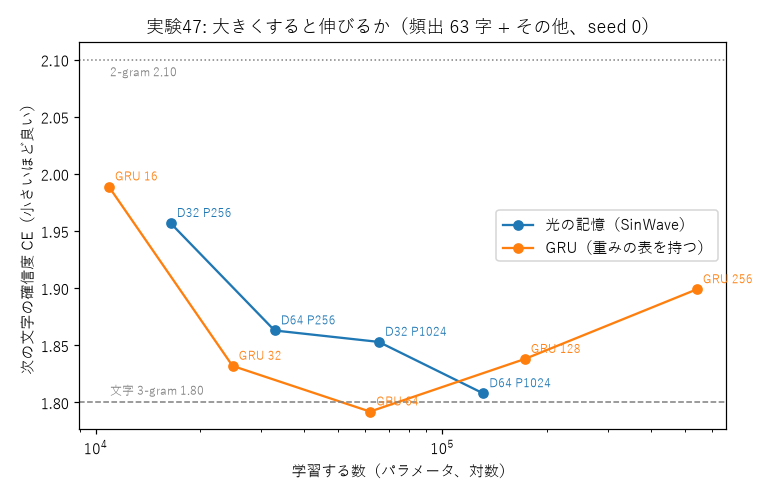
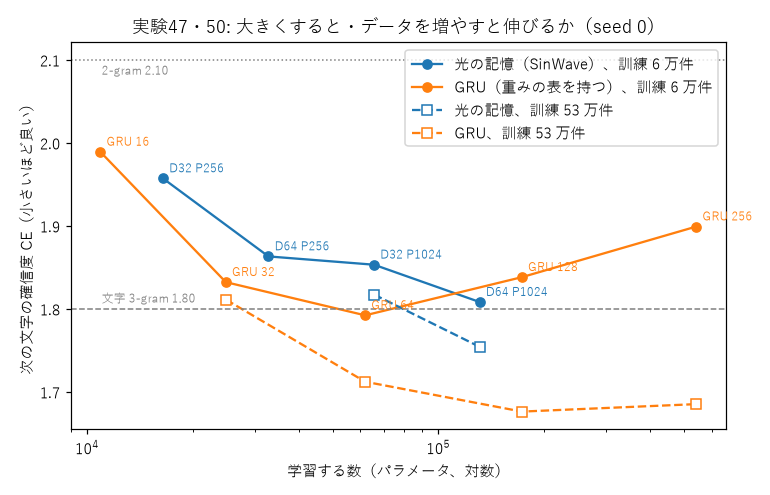
実験49・50: 組み立ての誤差への強さは性能と引き換え。訓練データ全部で光の記憶が 3-gram を上回る（54.2%）が、GRU の方が伸びる

diff --git a/tools/scoreboard.py b/tools/scoreboard.py
@@ -16,9 +16,9 @@ import sys
 
 # (軸, 項目, 配点, ゼロ点の基準, 目標, 今の値, 対数で採点, 目標の根拠, 今の値の出典)。今の値が None なら未測定（0 点）
 ITEMS = [
-    ("言語", "次の文字の正解率 (%)", 8, 36.3, 53.6, 53.45, False, "3-gram（直前 2 文字の表）", "実験47 光の記憶 D64 P1024"),
-    ("言語", "次の文字の確信度 CE（小さいほど良い）", 8, 3.09, 1.80, 1.808, False, "3-gram", "実験47"),
-    ("言語", "文脈の活用（文脈 1 文字→最良の伸び、点）", 5, 0.0, 12.9, 11.8, False, "n-gram の伸び 42.5→55.4", "実験47 41.7→53.5"),
+    ("言語", "次の文字の正解率 (%)", 8, 36.3, 53.6, 54.18, False, "3-gram（直前 2 文字の表）", "実験50 光の記憶 D64 P1024、訓練 53 万件"),
+    ("言語", "次の文字の確信度 CE（小さいほど良い）", 8, 3.09, 1.80, 1.754, False, "3-gram", "実験50"),
+    ("言語", "文脈の活用（文脈 1 文字→最良の伸び、点）", 5, 0.0, 12.9, 12.3, False, "n-gram の伸び 42.5→55.4", "実験50 41.9→54.2"),
     ("言語", "文字列の分類（16 クラス、%）", 5, 6.25, 95.1, 95.2, False, "ロジスティック回帰", "実験30・32（色ごと）"),
     ("言語", "文字の並び（順序課題、%）", 4, 50.0, 100.0, 100.0, False, "隣り合う 2 文字の回帰", "実験30・33"),
     ("言語", "文字列→文字列の規則（未知の文字列、%）", 5, 6.25, 100.0, 99.9, False, "完全に正しい変換", "実験37 逆順"),
@@ -30,7 +30,7 @@ ITEMS = [
     ("得意分野", "未知の物（例 0 個）の認識（既知と未知の調和平均、%）", 7, 0.0, 80.0, 72.7, False, "既知・未知とも 80%", "実験36"),
     ("得意分野", "少数例で新しいクラスを追加（例 5 個、%）", 6, 8.3, 55.1, 21.2, False, "文字の出現回数で典型と照合", "実験28"),
     ("得意分野", "短い記憶（同じ文字を直前の文字で出し分け、%）", 2.5, 50.0, 100.0, 100.0, False, "完全に出し分け", "実験38b"),
-    ("得意分野", "長い記憶（文脈 2→5 文字の伸び、点）", 2.5, 0.0, 1.8, 2.7, False, "n-gram 3→4-gram の伸び", "実験47 50.6→53.4"),
+    ("得意分野", "長い記憶（文脈 2→5 文字の伸び、点）", 2.5, 0.0, 1.8, 2.6, False, "n-gram 3→4-gram の伸び", "実験50 51.5→54.0"),
     ("効率", "1 技能の大きさ（KB、小さいほど良い）", 3, 1000.0, 50.0, 10.1, False, "50KB 以下", "最小版 v1.1"),
     ("効率", "推論の速さ（µs/件、GPU、小さいほど良い）", 4, 1000.0, 1.0, 61.0, True, "1µs（n-gram は 0.1µs）", "最小版 v1.1 虹"),
     ("効率", "1 技能の学習時間（秒、小さいほど良い）", 3, 3600.0, 10.0, 106.0, True, "10 秒", "L=1024 色ごと 71ms × 1500"),

diff --git a/tools/plot_exp47.py b/tools/plot_exp47.py
@@ -1,4 +1,4 @@
-"""実験47 の図: 学習する数（パラメータ）と次の文字の確信度 CE（文脈 8 文字）。python tools/plot_exp47.py"""
+"""実験47・50 の図: 学習する数（パラメータ）と次の文字の確信度 CE。実線 = 訓練 6 万件（実験47）、破線 = 53 万件（実験50）。python tools/plot_exp47.py"""
 import json
 import pathlib
 import sys
@@ -20,12 +20,17 @@ for d in rows:
         gru.append((d["params"], min(d["ce_by_context"]), f"GRU {d['hid']}"))
     elif d["L"] == 1024 and d["steps"] == 6000:
         optical.append((d["params"], min(d["ce_by_context"]), f"D{d['D']} P{d['P']}"))
+rows50 = [json.loads(l) for l in open(root / "results" / "exp50.txt", encoding="utf-8") if l.startswith("{")]
+optical50 = sorted((d["params"], min(d["ce_by_context"]), "") for d in rows50 if d["model"] == "optical" and d["max_train"] == 530000)
+gru50 = sorted((d["params"], min(d["ce_by_context"]), "") for d in rows50 if d["model"] == "gru" and d["max_train"] == 530000)
 japanese_font()
 fig, ax = plt.subplots(figsize=(7, 4.5))
-for pts, c, name in ((sorted(optical), "tab:blue", "光の記憶（SinWave）"), (sorted(gru), "tab:orange", "GRU（重みの表を持つ）")):
+for pts, c, name in ((sorted(optical), "tab:blue", "光の記憶（SinWave）、訓練 6 万件"), (sorted(gru), "tab:orange", "GRU（重みの表を持つ）、訓練 6 万件")):
     ax.plot([p for p, _, _ in pts], [v for _, v, _ in pts], "o-", color=c, label=name)
     for p, v, t in pts:
         ax.annotate(t, (p, v), textcoords="offset points", xytext=(4, 4), fontsize=8, color=c)
+for pts, c, name in ((optical50, "tab:blue", "光の記憶、訓練 53 万件"), (gru50, "tab:orange", "GRU、訓練 53 万件")):
+    ax.plot([p for p, _, _ in pts], [v for _, v, _ in pts], "s--", color=c, mfc="white", label=name)
 ax.axhline(1.80, color="gray", ls="--", lw=1)
 ax.text(11000, 1.805, "文字 3-gram 1.80", color="gray", fontsize=8, va="bottom")
 ax.axhline(2.10, color="gray", ls=":", lw=1)
@@ -33,7 +38,7 @@ ax.text(11000, 2.095, "2-gram 2.10", color="gray", fontsize=8, va="top")
 ax.set_xscale("log")
 ax.set_xlabel("学習する数（パラメータ、対数）")
 ax.set_ylabel("次の文字の確信度 CE（小さいほど良い）")
-ax.set_title("実験47: 大きくすると伸びるか（頻出 63 字 + その他、seed 0）")
+ax.set_title("実験47・50: 大きくすると・データを増やすと伸びるか（seed 0）")
 ax.legend()
 fig.tight_layout()
 fig.savefig(root / "docs" / "images" / "exp47_scaling.png", dpi=110)

diff --git a/NOTES.md b/NOTES.md
@@ -26,6 +26,7 @@
 **追記 (10/18)**: **光の記憶で実テキストの壁を越えた**。1 文字ずつ入れて前の出力の光を混ぜると、文脈が伸びるほど正答率が上がり、大きいモデルで 51.1%（従来 49.1%）、CE 1.96 で初めて 2-gram (2.10) を上回った（実験41）。閾値の増幅曲線・単純な差の検出・焦点の強さ・虹の分散は効果なし（実験31・32・33）。
 **追記 (10/19)**: よく出る文字列を 1 つの単位にまとめると、GRU は 1 文字あたり CE 3.72→3.60 と良くなる（3-gram 3.68 を上回る）が、光の記憶は 4.25→4.40 と悪くなる。全部の文字を当てる物差しでは、光の記憶は 3-gram に届かない（実験43）。
 **追記 (10/19)**: **大きくすると光の記憶は伸び続け、D64 P1024 で次の文字 53.5% / CE 1.81 と 3-gram (53.6 / 1.80)・最良の GRU (53.5 / 1.79) にほぼ並んだ**（実験47、seed 0、計算は GRU の約 350 倍）。GRU は訓練 6 万件では 64 より大きくすると悪化する。単位を部品の組で表す案は、b にも文脈の意味を持たせると 4.37 で単位ごとの窓 (4.40) をわずかに上回るが、文字単位 (4.25) には届かない（実験45・46）。同じ答えの入力を重ねる学習は速くならない（実験44）。
+**追記 (10/20)**: 訓練データを全部（53 万件）使うと、光の記憶 D64 P1024 は 54.2% / CE 1.75 で**初めて 3-gram (53.6 / 1.80) を上回った**。ただしデータを増やしたときの伸びは GRU の方が大きく（55.3 / 1.68）、差は開いた（実験50）。アナログで作るなら、部品の精度は粗くてよい（位相 4 ビット、雑音に強い）が、板の位置合わせ・間隔に極端に弱い（1 画素のずれで 93.5 → 26%）。ずれを入れて学習すると強くなるが理想の性能が 68% に落ちる（実験48・49）。
 **未解決**: 実テキストで 3-gram に届かない（48% で頭打ち。文脈を伸ばしても容量を増やしても 2 文字を超えない、実験30・32）、4 技能以上の融合での判別の低下、多くの結果が seed 1 本
 **一貫した教訓**: 強度検出は振幅の 2 乗なので、異なる位置の文字どうしの干渉が「位置の雑音」になり汎化を妨げる。これを減らす工夫（照明・平均の滲み）だけが大きく効いた。
 
@@ -1100,3 +1101,39 @@ L=1024、入力も部品、窓 112 個、seed 0。
 - **位置合わせと板の間隔に極端に弱い**: 板が 1 画素ずれるだけで 26%、間隔が 5% 違うだけで 33%。16 枚の板を光が順に通るので、ずれが積み重なる。板の縞が細かい（ω の上限 π = 2 画素周期）ことも、1 画素のずれで位相が大きく変わる原因と考えられる。
 - **雑音入り学習は、理想の装置でも良くなる**（93.5 → 94.7）。正則化として効いている。
 - アナログで作るときの課題は「素子の精度」より「組み立ての精度」。次（実験49）: 粗い縞（ω の上限を下げる）と、ずれ・間隔の誤差を入れた学習で、組み立ての誤差に強くできるか。
+
+## 実験49: 組み立ての誤差に強くする (exp48_analog.py --wmax --train_shift --train_zerr、sweep49.sh)
+実験48 で板の位置のずれ・間隔の誤差に極端に弱かったため、(1) 板の縞を粗くする（ω の上限 π → 0.4 / 0.1）、
+(2) 学習中に毎回、板ごとの ±1 画素のずれ・3% の間隔の誤差・位相の誤差 0.2・検出器の雑音 0.2 を入れる（「ずれ入り学習」）を試した。3 seed。
+
+| 条件 | 理想 | ずれ ±1 画素 | ±2 画素 | 間隔 5% | 間隔 10% | 4 ビット |
+|---|---|---|---|---|---|---|
+| ふつう（実験48） | 93.5 | 25.8 | 12.7 | 32.8 | 17.6 | 91.9 |
+| 粗い縞 ω≤0.4 | 92.4 | 44.8 | 20.2 | 38.4 | 19.5 | 89.4 |
+| ずれ入り学習 | 68.5 | 63.1 | 55.1 | 59.0 | 40.9 | 67.4 |
+| ずれ入り学習 + ω≤0.4 | 68.5 | **64.0** | **58.6** | **61.1** | 40.7 | 67.8 |
+| ずれ入り学習 + ω≤0.1 | 62.6 | 60.6 | 55.4 | 57.4 | 39.0 | 61.2 |
+
+- **ずれに強くはなるが、代わりに理想の性能が 93.5 → 68.5 に落ちる**。ずれても 60% 前後を保つが、ずれのない装置でも 68% しか出ない。
+- 粗い縞だけでは、理想の性能をほぼ保ったまま ±1 画素のずれで 26 → 45% と少し改善するにとどまる。
+- 16 枚の板のずれが積み重なる構造そのものが弱点。対策の候補: (a) 板を減らす、(b) 作った後にその装置の上で少しだけ学習し直す（装置ごとの調整。光学ニューラルネットの研究で定番の「装置の上での学習」）、(c) ずれの量を学習中に少しずつ増やす。
+  アナログで作るなら、(b) のように「出荷後に装置の上で検出器の補正と板を少し学習し直す」前提にするのが現実的。
+
+## 実験50: 訓練データを増やすと、どちらが伸びるか (exp41_textrnn.py --max_train、sweep50.sh、図 docs/images/exp47_scaling.png)
+実験47 は訓練 6 万件。手元のデータ全部（約 53 万件）まで増やした。n-gram は以前から訓練文書をすべて使っていたので、ここで初めて同じデータで比べたことになる。seed 0。
+
+| 方式 | パラメータ | 6 万件 | 20 万件 | 53 万件（正解率 / CE） |
+|---|---|---|---|---|
+| 光 D32 P1024 | 66K | 52.5 / 1.85 | | 53.4 / 1.82 |
+| 光 D64 P1024 | 131K | 53.5 / 1.81 | 54.1 / 1.76 | **54.2 / 1.75** |
+| GRU 64 | 62K | 53.3 / 1.79 | 54.6 / 1.72 | 54.8 / 1.71 |
+| GRU 128 | 173K | 52.3 / 1.84 | 55.3 / 1.70 | **55.3 / 1.68** |
+| GRU 256 | 542K | 51.7 / 1.90 | 54.6 / 1.72 | 55.5 / 1.69 |
+| 参考: 文字 3-gram / 4-gram（全訓練文書） | | | | 53.6 / 1.80、55.4 / — |
+
+- **光の記憶は 3-gram を初めて上回った**（54.2% / CE 1.75 対 53.6% / 1.80）。
+- **ただしデータを増やしたときの伸びは GRU の方が大きい**。光 D64 P1024 は 6 万 → 20 万件で 1.81 → 1.76 と伸びたが、20 万 → 53 万件ではほぼ止まった（1.76 → 1.75）。
+  GRU は大きいものほどデータで伸び（128: 1.84 → 1.68）、差は 6 万件の「ほぼ同じ」から 53 万件の 0.08 に開いた。
+- 光の記憶は今の大きさで容量が上限に近い（D32 → D64 では 53 万件でも 1.82 → 1.75 と伸びる）。データより大きさが効く。
+- 大規模化の判断: 同じ成績に GRU の約 350 倍の計算が要り、データを増やしても差が縮まらない。GPU を借りて大きくしても、GRU に追いつく見込みは薄い。
+  言語の予測では、光の方式を大規模化するより、組み立て式で従来の部品に任せる方が筋が良い。

diff --git a/docs/scoreboard.md b/docs/scoreboard.md
@@ -3,11 +3,11 @@
 各項目に「ゼロ点の基準」（何もしない場合）と「目標」（最低限の指標＝定番の手法の値）を置き、今の値がその間のどこにあるかで採点しています。
 目標に届けば満点です。計算式と数値は `tools/scoreboard.py` にあり、新しい結果が出たら書き換えて `python tools/scoreboard.py --md` で更新します。
 
-## 合計: **68.5 / 100 点**（測定済みの項目だけなら 68.5 / 80 点）
+## 合計: **68.8 / 100 点**（測定済みの項目だけなら 68.8 / 80 点）
 
 | 軸 | 点 | 配点 | 達成率 |
 |---|---|---|---|
-| 言語 | 34.4 | 35 | 98% |
+| 言語 | 34.8 | 35 | 99% |
 | 画像 | 0.0 | 20 | 0% |
 | 得意分野 | 27.7 | 35 | 79% |
 | 効率 | 6.4 | 10 | 64% |
@@ -16,9 +16,9 @@
 
 | 軸 | 項目 | 配点 | ゼロ点の基準 | 目標 | 今の値 | 点 | あと | 目標の根拠 | 出典 |
 |---|---|---|---|---|---|---|---|---|---|
-| 言語 | 次の文字の正解率 (%) | 8 | 36.3 | 53.6 | 53.45 | 7.9 | 0.1 | 3-gram（直前 2 文字の表） | 実験47 光の記憶 D64 P1024 |
-| 言語 | 次の文字の確信度 CE（小さいほど良い） | 8 | 3.09 | 1.8 | 1.808 | 8.0 | 0.0 | 3-gram | 実験47 |
-| 言語 | 文脈の活用（文脈 1 文字→最良の伸び、点） | 5 | 0 | 12.9 | 11.8 | 4.6 | 0.4 | n-gram の伸び 42.5→55.4 | 実験47 41.7→53.5 |
+| 言語 | 次の文字の正解率 (%) | 8 | 36.3 | 53.6 | 54.18 | 8.0 | 0.0 | 3-gram（直前 2 文字の表） | 実験50 光の記憶 D64 P1024、訓練 53 万件 |
+| 言語 | 次の文字の確信度 CE（小さいほど良い） | 8 | 3.09 | 1.8 | 1.754 | 8.0 | 0.0 | 3-gram | 実験50 |
+| 言語 | 文脈の活用（文脈 1 文字→最良の伸び、点） | 5 | 0 | 12.9 | 12.3 | 4.8 | 0.2 | n-gram の伸び 42.5→55.4 | 実験50 41.9→54.2 |
 | 言語 | 文字列の分類（16 クラス、%） | 5 | 6.25 | 95.1 | 95.2 | 5.0 | 0.0 | ロジスティック回帰 | 実験30・32（色ごと） |
 | 言語 | 文字の並び（順序課題、%） | 4 | 50 | 100 | 100 | 4.0 | 0.0 | 隣り合う 2 文字の回帰 | 実験30・33 |
 | 言語 | 文字列→文字列の規則（未知の文字列、%） | 5 | 6.25 | 100 | 99.9 | 5.0 | 0.0 | 完全に正しい変換 | 実験37 逆順 |
@@ -30,7 +30,7 @@
 | 得意分野 | 未知の物（例 0 個）の認識（既知と未知の調和平均、%） | 7 | 0 | 80 | 72.7 | 6.4 | 0.6 | 既知・未知とも 80% | 実験36 |
 | 得意分野 | 少数例で新しいクラスを追加（例 5 個、%） | 6 | 8.3 | 55.1 | 21.2 | 1.7 | 4.3 | 文字の出現回数で典型と照合 | 実験28 |
 | 得意分野 | 短い記憶（同じ文字を直前の文字で出し分け、%） | 2.5 | 50 | 100 | 100 | 2.5 | 0.0 | 完全に出し分け | 実験38b |
-| 得意分野 | 長い記憶（文脈 2→5 文字の伸び、点） | 2.5 | 0 | 1.8 | 2.7 | 2.5 | 0.0 | n-gram 3→4-gram の伸び | 実験47 50.6→53.4 |
+| 得意分野 | 長い記憶（文脈 2→5 文字の伸び、点） | 2.5 | 0 | 1.8 | 2.6 | 2.5 | 0.0 | n-gram 3→4-gram の伸び | 実験50 51.5→54.0 |
 | 効率 | 1 技能の大きさ（KB、小さいほど良い） | 3 | 1000 | 50 | 10.1 | 3.0 | 0.0 | 50KB 以下 | 最小版 v1.1 |
 | 効率 | 推論の速さ（µs/件、GPU、小さいほど良い） | 4 | 1000 | 1 | 61 | 1.6 | 2.4 | 1µs（n-gram は 0.1µs） | 最小版 v1.1 虹 |
 | 効率 | 1 技能の学習時間（秒、小さいほど良い） | 3 | 3600 | 10 | 106 | 1.8 | 1.2 | 10 秒 | L=1024 色ごと 71ms × 1500 |

diff --git a/README.md b/README.md
@@ -157,7 +157,7 @@ flowchart LR
 | 32 単語の暗記 | 100% | – |
 | 順序の判定（「あい」が隣り合うか） | 99%+ | 巡回バイグラムの回帰 100% |
 | 16 クラスを 1 光路で（平均の滲み + tilt） | 91.5% | 文字頻度の回帰 95% |
-| 実テキスト（CC-100 日本語）で次の 1 文字、64 クラス（直前 2 文字から） | 正解率 44.0%（2048 params）〜 51.1%（16384 params、光の記憶）〜 **53.5%**（131072 params、光の記憶を大きく、CE 1.81、実験47） | 2-gram 42.5% / CE 2.10、3-gram 53.6% / CE 1.80、GRU（最良の大きさ）53.3% / CE 1.81 |
+| 実テキスト（CC-100 日本語）で次の 1 文字、64 クラス（直前 2 文字から） | 正解率 44.0%（2048 params）〜 51.1%（16384 params、光の記憶）〜 53.5%（131072 params、光の記憶を大きく、CE 1.81、実験47）〜 **54.2%**（同、訓練データ全部、CE 1.75、実験50） | 2-gram 42.5% / CE 2.10、3-gram 53.6% / CE 1.80、GRU（最良の大きさ）53.3% / CE 1.81（訓練データ全部なら 55.5% / 1.68） |
 
 ### 光路の足し算・引き算（タスク算術）
 
